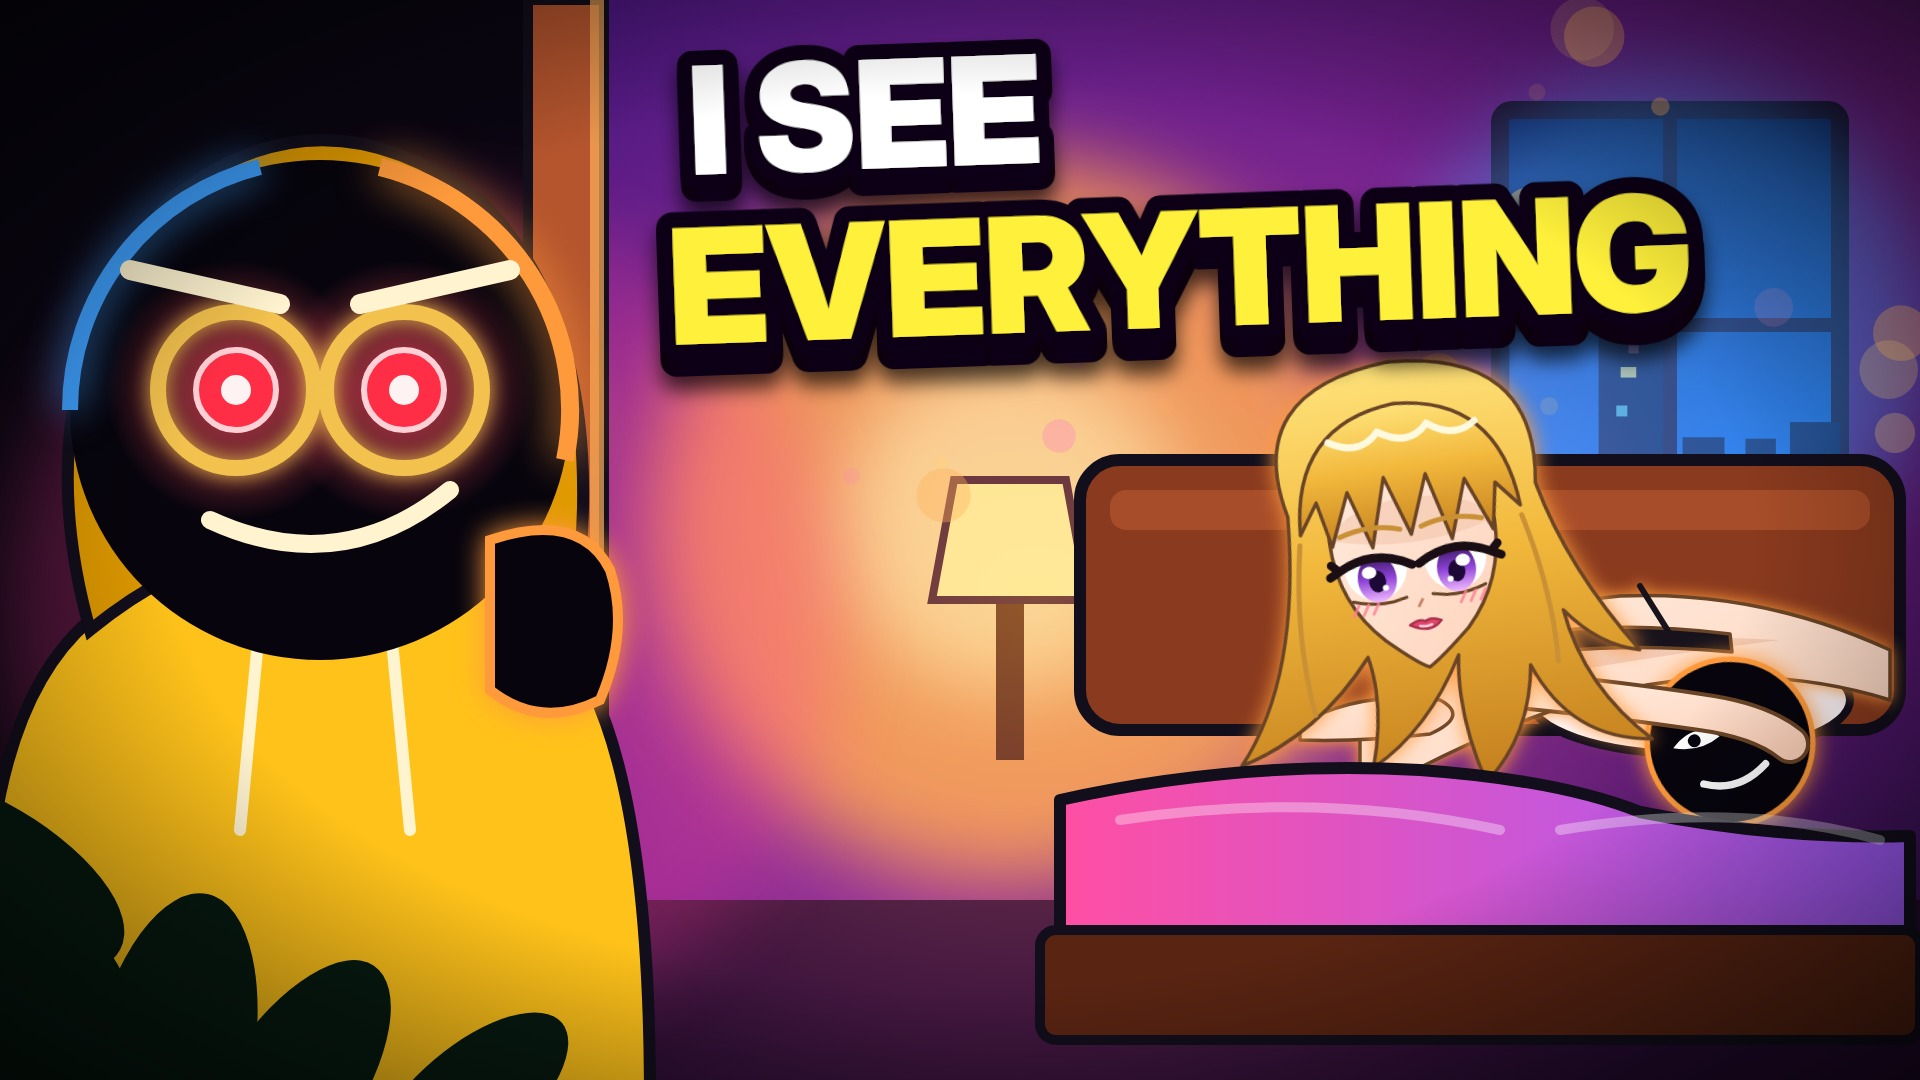
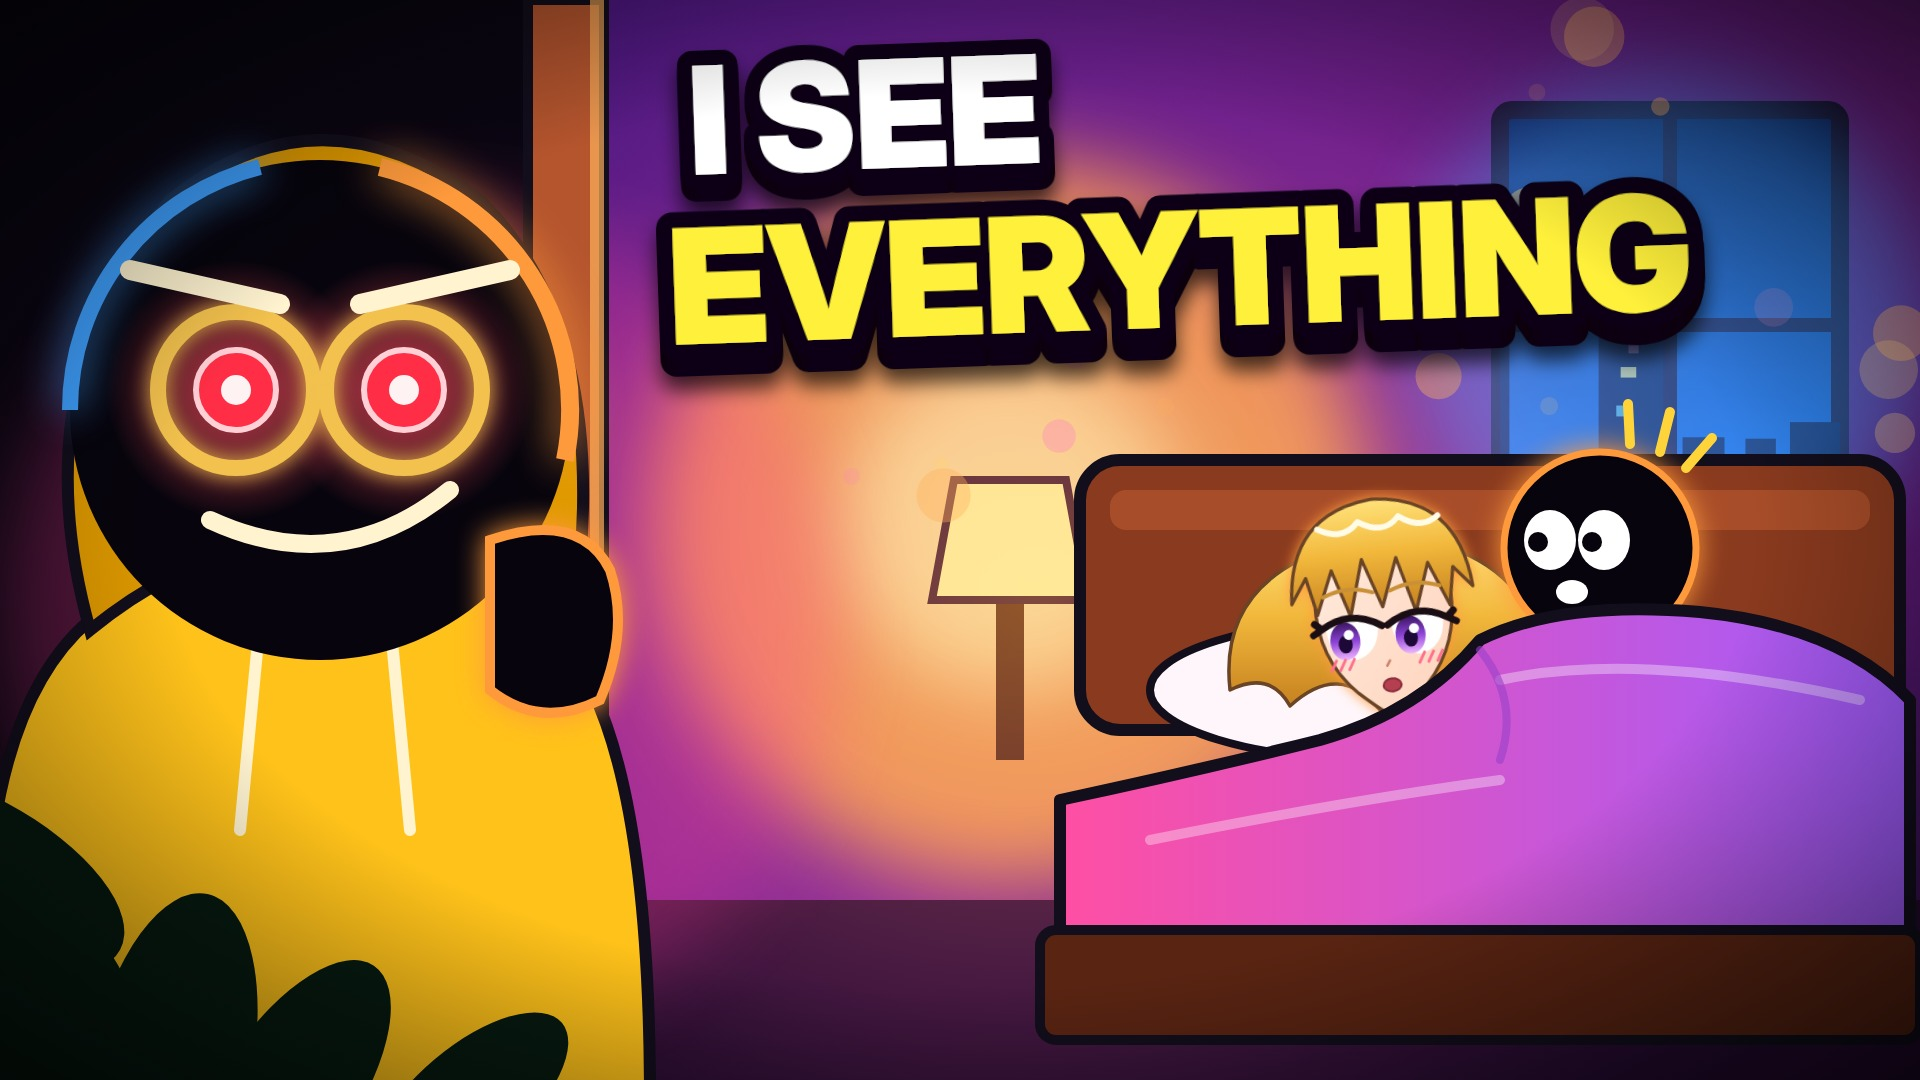
016 peek thumbnail: restart the couple (her under the blanket, him on top, both caught)
Claude-Session: https://claude.ai/code/session_019ai2m2MxcJnxMHWqzPuaSF

Changed region(s): [[0.5625, 0.3056, 1.0, 0.7944]]

diff --git a/episodes/016-invisible/thumb4.html b/episodes/016-invisible/thumb4.html
@@ -32,53 +32,43 @@ const th_bed=`
   <linearGradient id="gSkin" x1="0" y1="0" x2="1" y2="1"><stop offset="0" stop-color="#FFE3CC"/><stop offset="1" stop-color="#EDB48C"/></linearGradient>
  </defs>
 
- <!-- her: Japanese anime style. Thin warm line art, cel shading, big half-lidded eyes, spiky bangs + shine band -->
+
  <defs>
   <linearGradient id="aHair" x1="0" y1="0" x2="0" y2="1"><stop offset="0" stop-color="#FFE27A"/><stop offset=".45" stop-color="#F2B83C"/><stop offset="1" stop-color="#C47F1E"/></linearGradient>
   <linearGradient id="aSkin" x1="0" y1="0" x2="1" y2="1"><stop offset="0" stop-color="#FFEBDD"/><stop offset="1" stop-color="#FFD3BC"/></linearGradient>
   <linearGradient id="aIris" x1="0" y1="0" x2="0" y2="1"><stop offset="0" stop-color="#3A1460"/><stop offset=".5" stop-color="#8E44D8"/><stop offset="1" stop-color="#F0B8FF"/></linearGradient>
  </defs>
- <!-- body lying on her stomach across the bed: bare back, thin black bra band -->
- <g stroke="#6A4426" stroke-width="3.5" stroke-linejoin="round" stroke-linecap="round" style="filter:drop-shadow(0 0 8px #FF9A3C)">
-  <path d="M1360 712 Q1470 610 1620 596 Q1760 590 1890 650 L1890 700 Q1760 660 1620 690 Q1500 720 1360 800Z" fill="url(#aSkin)"/>
-  <path d="M1470 664 Q1600 630 1780 640 Q1620 660 1470 690Z" fill="#E9B79C" stroke="none" opacity=".55"/>
-  <path d="M1540 620 Q1600 646 1660 640" fill="none" opacity=".6"/>
-  <path d="M1500 640 Q1600 618 1730 634 L1732 652 Q1600 640 1498 660Z" fill="#17121C"/>
-  <path d="M1532 636 L1508 590 M1670 634 L1640 586" fill="none" stroke="#17121C" stroke-width="6"/>
-  <path d="M1300 724 Q1360 690 1440 700 Q1470 716 1430 734 Q1360 742 1300 740Z" fill="url(#aSkin)"/>
- </g>
- <!-- him: shadow stickman lying on the pillow, smirking at the door -->
- <g transform="translate(1730,742) scale(.92) rotate(-10)">
-  <circle r="90" fill="#07040D" stroke="${W_}" stroke-width="6" style="filter:drop-shadow(0 0 12px ${W_})"/>
-  <path d="M-62 -4 Q-34 -30 -10 -8 Q-34 6 -62 -4Z M54 -4 Q28 -28 4 -8 Q28 6 54 -4Z" fill="#fff"/>
-  <circle cx="-38" cy="-8" r="7" fill="#07040D"/><circle cx="16" cy="-8" r="7" fill="#07040D"/>
-  <path d="M-36 40 Q0 56 34 30" stroke="#fff" stroke-width="8" fill="none" stroke-linecap="round"/>
- </g>
-
- <path d="M1520 690 Q1620 700 1700 712 Q1760 720 1790 744" fill="none" stroke="#6A4426" stroke-width="40" stroke-linecap="round"/>
- <path d="M1520 690 Q1620 700 1700 712 Q1760 720 1790 744" fill="none" stroke="url(#aSkin)" stroke-width="32" stroke-linecap="round"/>
- <!-- head: three-quarter view, chin resting toward her hand -->
- <g transform="translate(1415,560) rotate(-8)" style="filter:drop-shadow(0 0 10px #FF9A3C)" stroke="#6A4426" stroke-width="3.5" stroke-linejoin="round" stroke-linecap="round">
-  <path d="M-120 -60 Q-150 -190 0 -200 Q150 -192 130 -60 Q150 30 210 120 Q170 110 140 70 Q150 150 210 210 Q130 200 100 120 Q90 190 40 230 Q20 160 30 100 Q-10 170 -70 200 Q-50 140 -60 90 Q-120 160 -200 180 Q-130 100 -120 -60Z" fill="url(#aHair)"/>
+ <!-- pillow + her hair fanned out on it -->
+ <ellipse cx="1380" cy="690" rx="230" ry="70" fill="#FFF6FB" stroke="${INK}" stroke-width="8"/>
+ <path d="M1230 690 Q1220 600 1300 560 Q1380 520 1470 556 Q1540 590 1550 680 Q1500 650 1470 700 Q1420 660 1380 710 Q1340 660 1290 706 Q1270 670 1230 690Z" fill="url(#aHair)" stroke="#6A4426" stroke-width="3.5" stroke-linejoin="round"/>
+ <!-- her face (anime), lying on her back, eyes turned to the door, flustered -->
+ <g transform="translate(1385,628) scale(.82) rotate(-6)" stroke="#6A4426" stroke-width="4" stroke-linejoin="round" stroke-linecap="round" style="filter:drop-shadow(0 0 8px #FF9A3C)">
   <path d="M-82 -40 Q-86 30 -40 76 Q-10 104 0 108 Q14 100 44 74 Q88 28 84 -40 Q70 -110 0 -112 Q-70 -110 -82 -40Z" fill="url(#aSkin)"/>
-  <path d="M-80 -30 Q0 -6 82 -30 Q70 -60 0 -64 Q-70 -60 -80 -30Z" fill="#F4C6AE" stroke="none" opacity=".6"/>
   <path d="M-110 -40 Q-104 -150 0 -158 Q104 -152 112 -40 L90 -66 L82 -20 L60 -74 L40 -16 L22 -84 L0 -26 L-20 -86 L-40 -18 L-58 -76 L-80 -24 L-90 -70Z" fill="url(#aHair)"/>
-  <path d="M-70 -128 Q-40 -110 -20 -132 Q10 -112 30 -134 Q56 -114 78 -130" fill="none" stroke="#FFFBE6" stroke-width="7" opacity=".95"/>
-  <path d="M-112 -30 Q-130 60 -120 140 M112 -30 Q132 50 128 120" fill="none" stroke="#C99036" stroke-width="5"/>
+  <path d="M-70 -128 Q-40 -110 -20 -132 Q10 -112 30 -134 Q56 -114 78 -130" fill="none" stroke="#FFFBE6" stroke-width="7"/>
   ${[-1,1].map(d=>`<g transform="translate(${d*40},4) scale(${d*1.22},1.22)">
-     <path d="M-26 -2 Q0 -14 26 -2 Q24 22 0 26 Q-24 22 -26 -2Z" fill="#fff" stroke="none"/>
-     <ellipse cx="0" cy="8" rx="16" ry="19" fill="url(#aIris)" stroke="none"/>
-     <ellipse cx="0" cy="10" rx="7" ry="9" fill="#1E0838" stroke="none"/>
-     <ellipse cx="6" cy="2" rx="6" ry="5" fill="#fff" stroke="none"/><circle cx="-6" cy="16" r="2.5" fill="#fff" stroke="none"/>
-     <path d="M-30 0 Q0 -18 30 -2 L36 -8 M30 -2 L38 2" fill="none" stroke="#1A0E14" stroke-width="7"/>
-     <path d="M-22 26 Q0 32 22 24" fill="none" stroke="#6A4426" stroke-width="2.5"/>
-     <path d="M-24 -30 Q0 -38 26 -30" fill="none" stroke="#C99036" stroke-width="4"/></g>`).join('')}
+     <path d="M-26 -6 Q0 -22 26 -6 Q24 22 0 26 Q-24 22 -26 -6Z" fill="#fff" stroke="none"/>
+     <ellipse cx="${-d*8}" cy="6" rx="15" ry="19" fill="url(#aIris)" stroke="none"/>
+     <ellipse cx="${-d*8}" cy="9" rx="7" ry="9" fill="#1E0838" stroke="none"/>
+     <ellipse cx="${-d*4}" cy="0" rx="5" ry="5" fill="#fff" stroke="none"/>
+     <path d="M-30 -6 Q0 -26 30 -8 L37 -14 M30 -8 L39 -3" fill="none" stroke="#1A0E14" stroke-width="7"/>
+     <path d="M-24 -40 Q0 -50 26 -40" fill="none" stroke="#C99036" stroke-width="4"/></g>`).join('')}
   <path d="M2 40 L-2 46" fill="none" stroke="#C9846A" stroke-width="3"/>
-  <path d="M-14 64 Q-4 58 2 62 Q8 58 18 63 Q6 76 -14 64Z" fill="#E2456A" stroke="#A8304E" stroke-width="2.5"/><path d="M-4 66 Q2 68 8 66" stroke="#FFD0DC" stroke-width="2.5" fill="none"/>
-  ${[-1,1].map(d=>`<g transform="translate(${d*54},44)" stroke="#FF7F98" stroke-width="3" opacity=".8"><path d="M-14 4 l6 -10 M-4 4 l6 -10 M6 4 l6 -10"/></g>`).join('')}
+  <ellipse cx="2" cy="70" rx="11" ry="8" fill="#B4404F" stroke="#8A2A3C" stroke-width="2.5"/>
+  ${[-1,1].map(d=>`<g transform="translate(${d*54},40)" stroke="#FF6F8E" stroke-width="3.5"><path d="M-16 6 l7 -12 M-5 6 l7 -12 M6 6 l7 -12"/></g>`).join('')}
  </g>
- <path d="M1060 800 Q1240 760 1420 770 Q1560 780 1640 812 Q1780 840 1910 836 L1910 960 L1060 960Z" fill="url(#thSheet)" stroke="${INK}" stroke-width="12" stroke-linejoin="round"/>
- <path d="M1120 820 Q1320 790 1500 830 M1560 830 Q1740 800 1880 840" stroke="#FFFFFF" stroke-opacity=".35" stroke-width="10" fill="none" stroke-linecap="round"/>
+ <!-- him on top: shadow stickman propped above her, head turned to the door, caught -->
+ <g transform="translate(1600,548)">
+  <circle r="96" fill="#07040D" stroke="${W_}" stroke-width="7" style="filter:drop-shadow(0 0 14px ${W_})"/>
+  <ellipse cx="-50" cy="-8" rx="26" ry="30" fill="#fff"/><ellipse cx="4" cy="-8" rx="26" ry="30" fill="#fff"/>
+  <circle cx="-62" cy="-6" r="10" fill="#07040D"/><circle cx="-8" cy="-6" r="10" fill="#07040D"/>
+  <ellipse cx="-28" cy="44" rx="16" ry="12" fill="#fff"/>
+  <path d="M60 -96 l10 -40 M86 -80 l26 -30 M30 -104 l-2 -40" stroke="#FFD43B" stroke-width="10" stroke-linecap="round"/>
+ </g>
+ <!-- one blanket over both: raised where he's on top of her -->
+ <path d="M1060 800 Q1200 770 1320 740 Q1420 712 1480 640 Q1560 600 1700 612 Q1840 626 1910 700 L1910 960 L1060 960Z" fill="url(#thSheet)" stroke="${INK}" stroke-width="12" stroke-linejoin="round"/>
+ <path d="M1500 680 Q1640 650 1860 700 M1150 840 Q1350 800 1500 780" stroke="#FFFFFF" stroke-opacity=".35" stroke-width="10" fill="none" stroke-linecap="round"/>
+ <path d="M1480 650 Q1520 700 1500 760" stroke="#9A3FC8" stroke-width="8" fill="none" stroke-linecap="round" opacity=".6"/>
  <rect x="1040" y="930" width="880" height="110" rx="16" fill="#5A2412" stroke="${INK}" stroke-width="10"/>`;
 const th_door=`
  <rect x="0" y="0" width="560" height="1080" fill="#0A0612"/>
